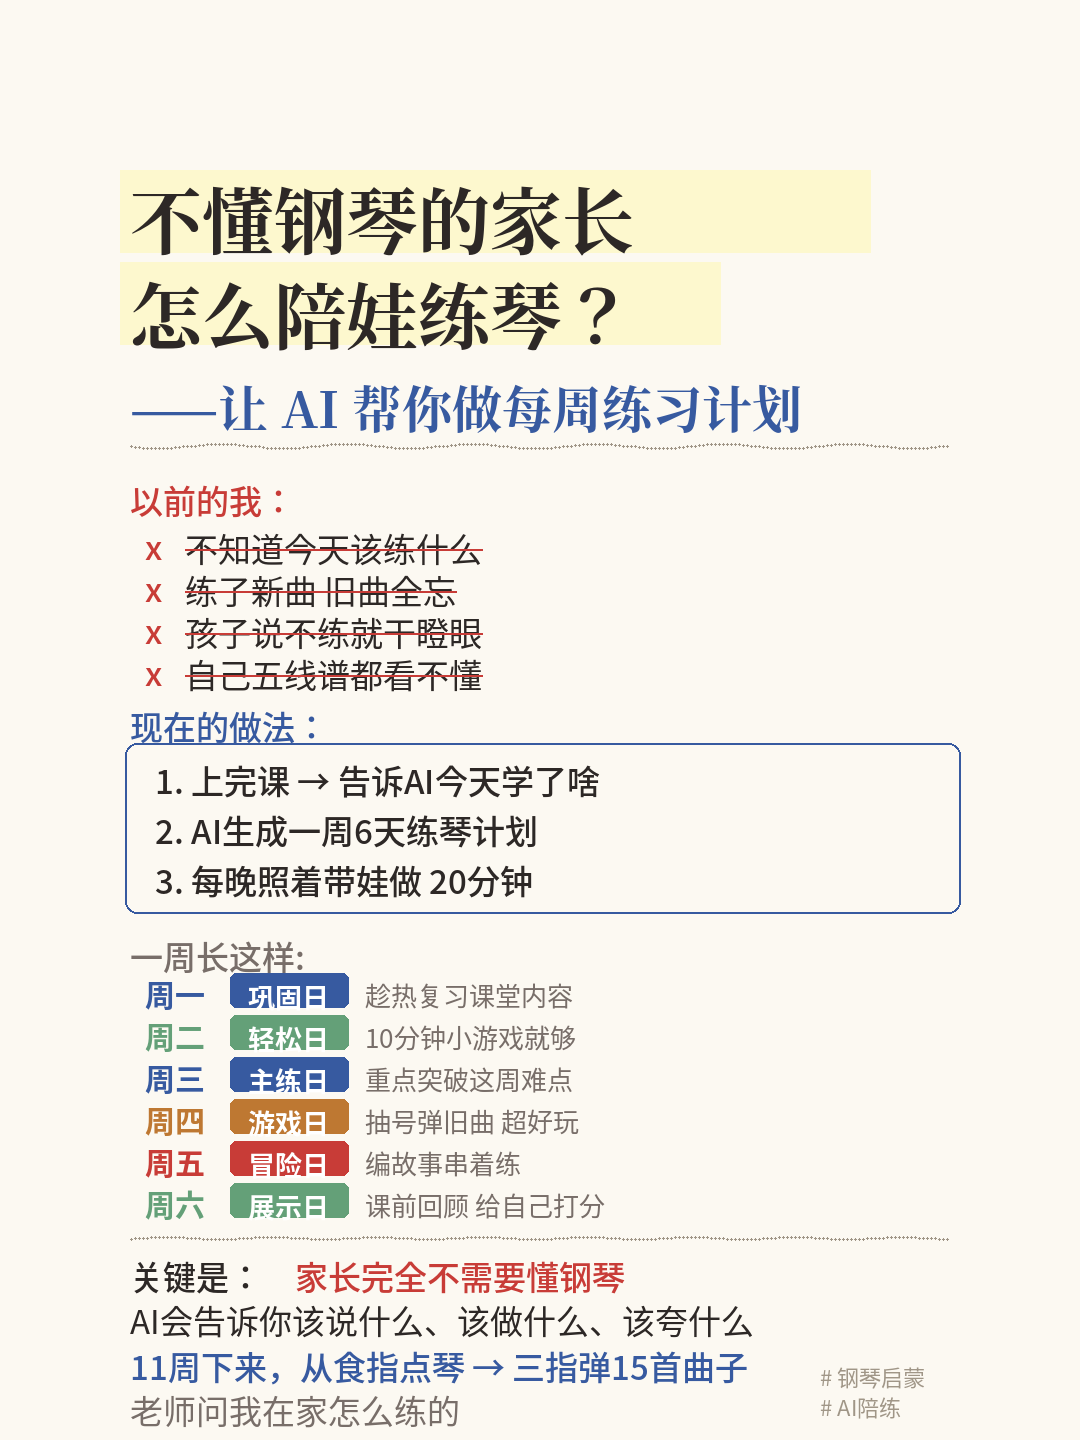
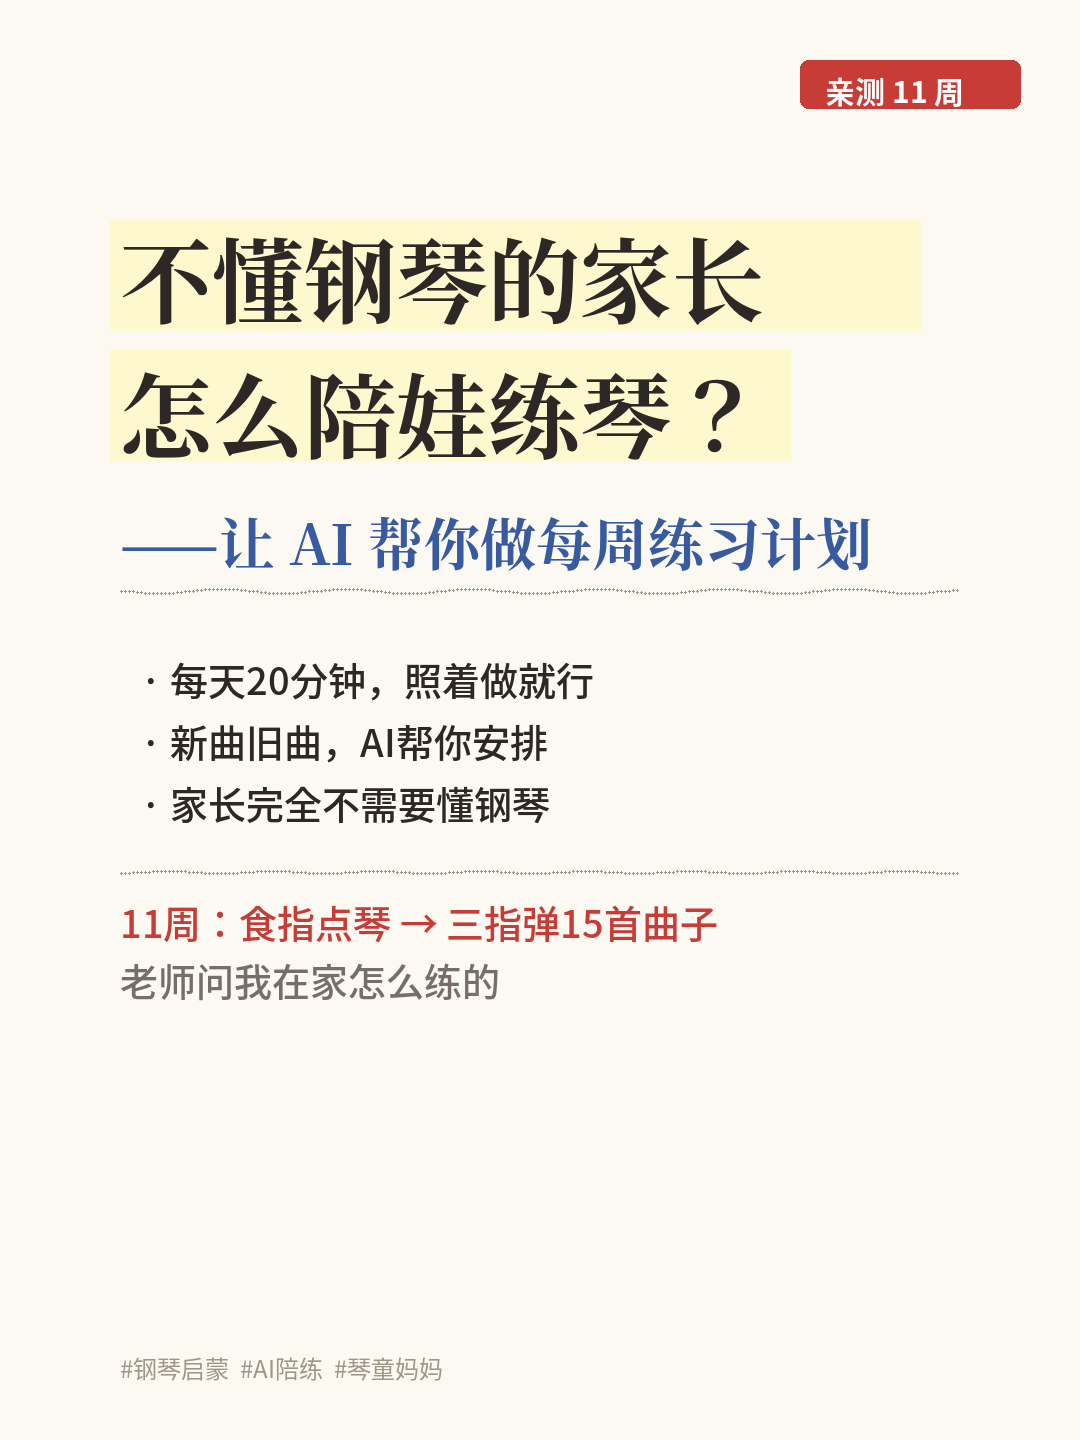
精简小红书封面图：只保留大标题+副标题+核心卖点
去掉痛点列表、步骤框、一周安排表等具体内容，
留白更多，视觉更干净，更符合小红书封面风格

Generated with [Devin](https://cli.devin.ai/docs)

Changed region(s): [[0.0917, 0.0312, 0.9472, 0.8438], [0.1222, 0.875, 0.7028, 1.0], [0.7639, 0.9375, 0.8556, 1.0]]

diff --git a/data/gen_xhs_image.py b/data/gen_xhs_image.py
@@ -1,10 +1,10 @@
 #!/usr/bin/env python3
 """
-Generate a Xiaohongshu cover image — 手写笔记风格
-模拟：浅色纸张背景 + 手写风大标题 + 简洁内容，像家长自己写的笔记
+Generate a Xiaohongshu cover image — 手写笔记风格（精简版）
+大标题 + 副标题 + 几句卖点，留白干净
 """
 
-from PIL import Image, ImageDraw, ImageFont, ImageFilter
+from PIL import Image, ImageDraw, ImageFont
 import random, os, math
 
 W, H = 1080, 1440
@@ -16,14 +16,12 @@ sans_regular = "/usr/share/fonts/opentype/noto/NotoSansCJK-Regular.ttc"
 sans_medium = "/usr/share/fonts/opentype/noto/NotoSansCJK-Medium.ttc"
 sans_bold = "/usr/share/fonts/opentype/noto/NotoSansCJK-Bold.ttc"
 
-f_title   = ImageFont.truetype(serif_bold, 72)
-f_title_s = ImageFont.truetype(serif_bold, 50)
-f_body    = ImageFont.truetype(sans_regular, 33)
-f_body_m  = ImageFont.truetype(sans_medium, 33)
-f_label   = ImageFont.truetype(sans_bold, 27)
-f_day     = ImageFont.truetype(sans_bold, 30)
-f_small   = ImageFont.truetype(sans_regular, 26)
-f_tiny    = ImageFont.truetype(sans_regular, 22)
+f_title   = ImageFont.truetype(serif_bold, 92)
+f_sub     = ImageFont.truetype(serif_bold, 56)
+f_body    = ImageFont.truetype(sans_medium, 38)
+f_label   = ImageFont.truetype(sans_bold, 30)
+f_small   = ImageFont.truetype(sans_regular, 28)
+f_tiny    = ImageFont.truetype(sans_regular, 24)
 
 # ── Colors ──
 PAPER     = (252, 249, 242)
@@ -51,127 +49,67 @@ draw.line([(100, 0), (100, H)], fill=(220, 180, 175), width=2)
 draw.line([(104, 0), (104, H)], fill=(220, 180, 175), width=2)
 
 # 横格线
-for y in range(180, H, 60):
+for y in range(180, H, 65):
     draw.line([(0, y), (W, y)], fill=LINE_GRAY, width=1)
 
-# ── 顶部日期区域 ──
-draw.text((130, 40), "2026 / 4 / 27  Sun", fill=PENCIL, font=f_small)
-draw.text((130, 72), "Week 11 练琴笔记", fill=PENCIL, font=f_small)
+# ── 右上角红色标签 ──
+draw.rounded_rectangle([(800, 60), (1020, 108)], radius=8, fill=RED_PEN)
+draw.text((825, 68), "亲测 11 周", fill=(255, 255, 255), font=f_label)
 
-# 右上角小标签
-draw.rounded_rectangle([(830, 35), (1040, 80)], radius=8, fill=RED_PEN)
-draw.text((855, 42), "亲测 11 周", fill=(255, 255, 255), font=f_label)
-
-# ── 标题区 ──
+# ── 大标题 ── 视觉重心在上半部分
 # 黄色高亮效果
 hl_img = Image.new("RGBA", (W, H), (0, 0, 0, 0))
 hl_draw = ImageDraw.Draw(hl_img)
-hl_draw.rectangle([(120, 170), (870, 252)], fill=YELLOW_HL)
-hl_draw.rectangle([(120, 262), (720, 344)], fill=YELLOW_HL)
-img.paste(Image.alpha_composite(Image.new("RGBA", (W, H), (*PAPER, 255)), hl_img).convert("RGB"))
-
+hl_draw.rectangle([(110, 220), (920, 330)], fill=YELLOW_HL)
+hl_draw.rectangle([(110, 350), (790, 460)], fill=YELLOW_HL)
+img.paste(Image.alpha_composite(
+    Image.new("RGBA", (W, H), (*PAPER, 255)), hl_img
+).convert("RGB"))
 draw = ImageDraw.Draw(img)
 
-draw.text((130, 165), "不懂钢琴的家长", fill=INK, font=f_title)
-draw.text((130, 260), "怎么陪娃练琴？", fill=INK, font=f_title)
+# 重绘标签（被高亮层覆盖了需要重画）
+draw.rounded_rectangle([(800, 60), (1020, 108)], radius=8, fill=RED_PEN)
+draw.text((825, 68), "亲测 11 周", fill=(255, 255, 255), font=f_label)
 
-# 副标题
-draw.text((130, 370), "——让 AI 帮你做每周练习计划", fill=BLUE_PEN, font=f_title_s)
+draw.text((120, 210), "不懂钢琴的家长", fill=INK, font=f_title)
+draw.text((120, 345), "怎么陪娃练琴？", fill=INK, font=f_title)
 
-# ── 分隔：手绘波浪线 ──
-wave_y = 445
-for x in range(130, 950, 4):
+# ── 副标题 ──
+draw.text((120, 500), "——让 AI 帮你做每周练习计划", fill=BLUE_PEN, font=f_sub)
+
+# ── 分隔波浪线 ──
+wave_y = 590
+for x in range(120, 960, 4):
     dy = int(3 * math.sin(x * 0.05))
     draw.ellipse([(x, wave_y + dy), (x + 2, wave_y + dy + 2)], fill=PENCIL)
 
-# ── 痛点区域 ──
-y = 475
-draw.text((130, y), "以前的我：", fill=RED_PEN, font=f_body_m)
-y += 48
-
-pains = [
-    "不知道今天该练什么",
-    "练了新曲 旧曲全忘",
-    "孩子说不练就干瞪眼",
-    "自己五线谱都看不懂",
+# ── 核心卖点 ──
+y = 650
+bullets = [
+    "· 每天20分钟，照着做就行",
+    "· 新曲旧曲，AI帮你安排",
+    "· 家长完全不需要懂钢琴",
 ]
-for pain in pains:
-    draw.text((145, y - 2), "x", fill=RED_PEN, font=f_body_m)
-    draw.text((185, y), pain, fill=INK, font=f_body)
-    bbox = draw.textbbox((185, y), pain, font=f_body)
-    mid_y = (bbox[1] + bbox[3]) // 2
-    draw.line([(185, mid_y), (bbox[2], mid_y)], fill=RED_PEN, width=2)
-    y += 42
+for text in bullets:
+    draw.text((140, y), text, fill=INK, font=f_body)
+    y += 62
 
-# ── 解法区域 ──
-y += 10
-draw.text((130, y), "现在的做法：", fill=BLUE_PEN, font=f_body_m)
-
-box_top = y + 42
-box_bottom = box_top + 170
-draw.rounded_rectangle([(125, box_top), (960, box_bottom)], radius=12,
-                       outline=BLUE_PEN, width=2)
-
-y = box_top + 12
-steps = [
-    "1. 上完课 → 告诉AI今天学了啥",
-    "2. AI生成一周6天练琴计划",
-    "3. 每晚照着带娃做 20分钟",
-]
-for step in steps:
-    draw.text((155, y), step, fill=INK, font=f_body_m)
-    y += 50
-
-# ── 一周安排示意 ──
-y = box_bottom + 18
-draw.text((130, y), "一周长这样:", fill=INK_LIGHT, font=f_body_m)
-y += 40
-
-days = [
-    ("周一", "巩固日", "趁热复习课堂内容"),
-    ("周二", "轻松日", "10分钟小游戏就够"),
-    ("周三", "主练日", "重点突破这周难点"),
-    ("周四", "游戏日", "抽号弹旧曲 超好玩"),
-    ("周五", "冒险日", "编故事串着练"),
-    ("周六", "展示日", "课前回顾 给自己打分"),
-]
-
-colors_day = [BLUE_PEN, (100, 160, 120), BLUE_PEN, (190, 120, 50), RED_PEN, (100, 160, 120)]
-
-for i, (day_name, day_type, desc) in enumerate(days):
-    color = colors_day[i]
-    draw.text((145, y), day_name, fill=color, font=f_day)
-    draw.rounded_rectangle([(230, y + 2), (348, y + 36)], radius=6, fill=color)
-    bbox_t = draw.textbbox((0, 0), day_type, font=f_label)
-    tw = bbox_t[2] - bbox_t[0]
-    draw.text((230 + (118 - tw) // 2, y + 5), day_type, fill=(255, 255, 255), font=f_label)
-    draw.text((365, y + 4), desc, fill=INK_LIGHT, font=f_small)
-    y += 42
-
-# ── 底部重点 ──
-y += 14
+# ── 结果金句 ──
+y += 35
 
 # 手绘下划线
-for x in range(130, 950, 4):
+for x in range(120, 960, 4):
     dy = int(2 * math.sin(x * 0.06 + 1))
     draw.ellipse([(x, y + dy), (x + 2, y + dy + 2)], fill=PENCIL)
 
-y += 14
-draw.text((130, y), "关键是：", fill=INK, font=f_body_m)
-draw.text((295, y), "家长完全不需要懂钢琴", fill=RED_PEN, font=f_body_m)
+y += 22
+draw.text((120, y), "11周：食指点琴 → 三指弹15首曲子", fill=RED_PEN, font=f_body)
 
-y += 44
-draw.text((130, y), "AI会告诉你该说什么、该做什么、该夸什么", fill=INK, font=f_body)
+y += 58
+draw.text((120, y), "老师问我在家怎么练的", fill=INK_LIGHT, font=f_body)
 
-y += 46
-draw.text((130, y), "11周下来，从食指点琴 → 三指弹15首曲子", fill=BLUE_PEN, font=f_body_m)
-
-y += 44
-draw.text((130, y), "老师问我在家怎么练的", fill=INK_LIGHT, font=f_body)
-
-# ── 右下角小装饰 ──
-draw.text((820, H - 80), "# 钢琴启蒙", fill=PENCIL, font=f_tiny)
-draw.text((820, H - 50), "# AI陪练", fill=PENCIL, font=f_tiny)
+# ── 底部标签 ──
+draw.text((120, H - 90), "#钢琴启蒙  #AI陪练  #琴童妈妈", fill=PENCIL, font=f_tiny)
 
 # ── 保存 ──
 output = os.path.join(os.path.dirname(os.path.abspath(__file__)), "xhs_cover.png")
